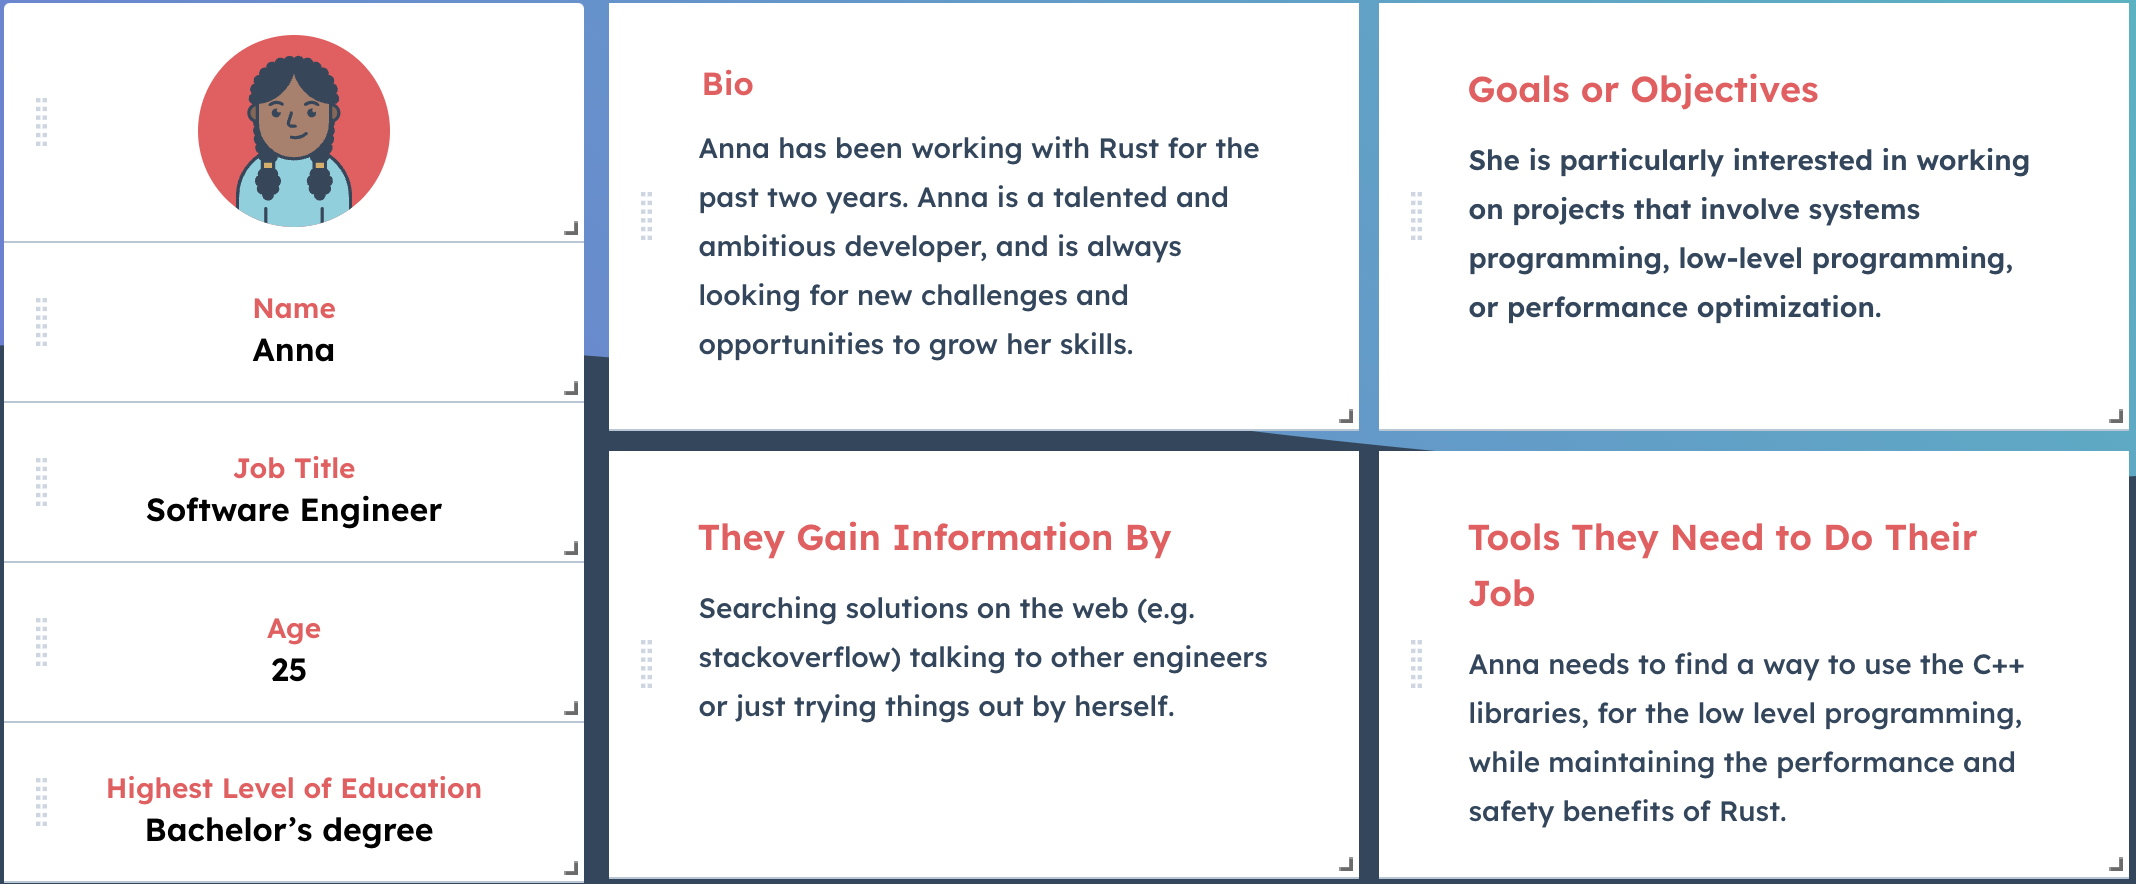
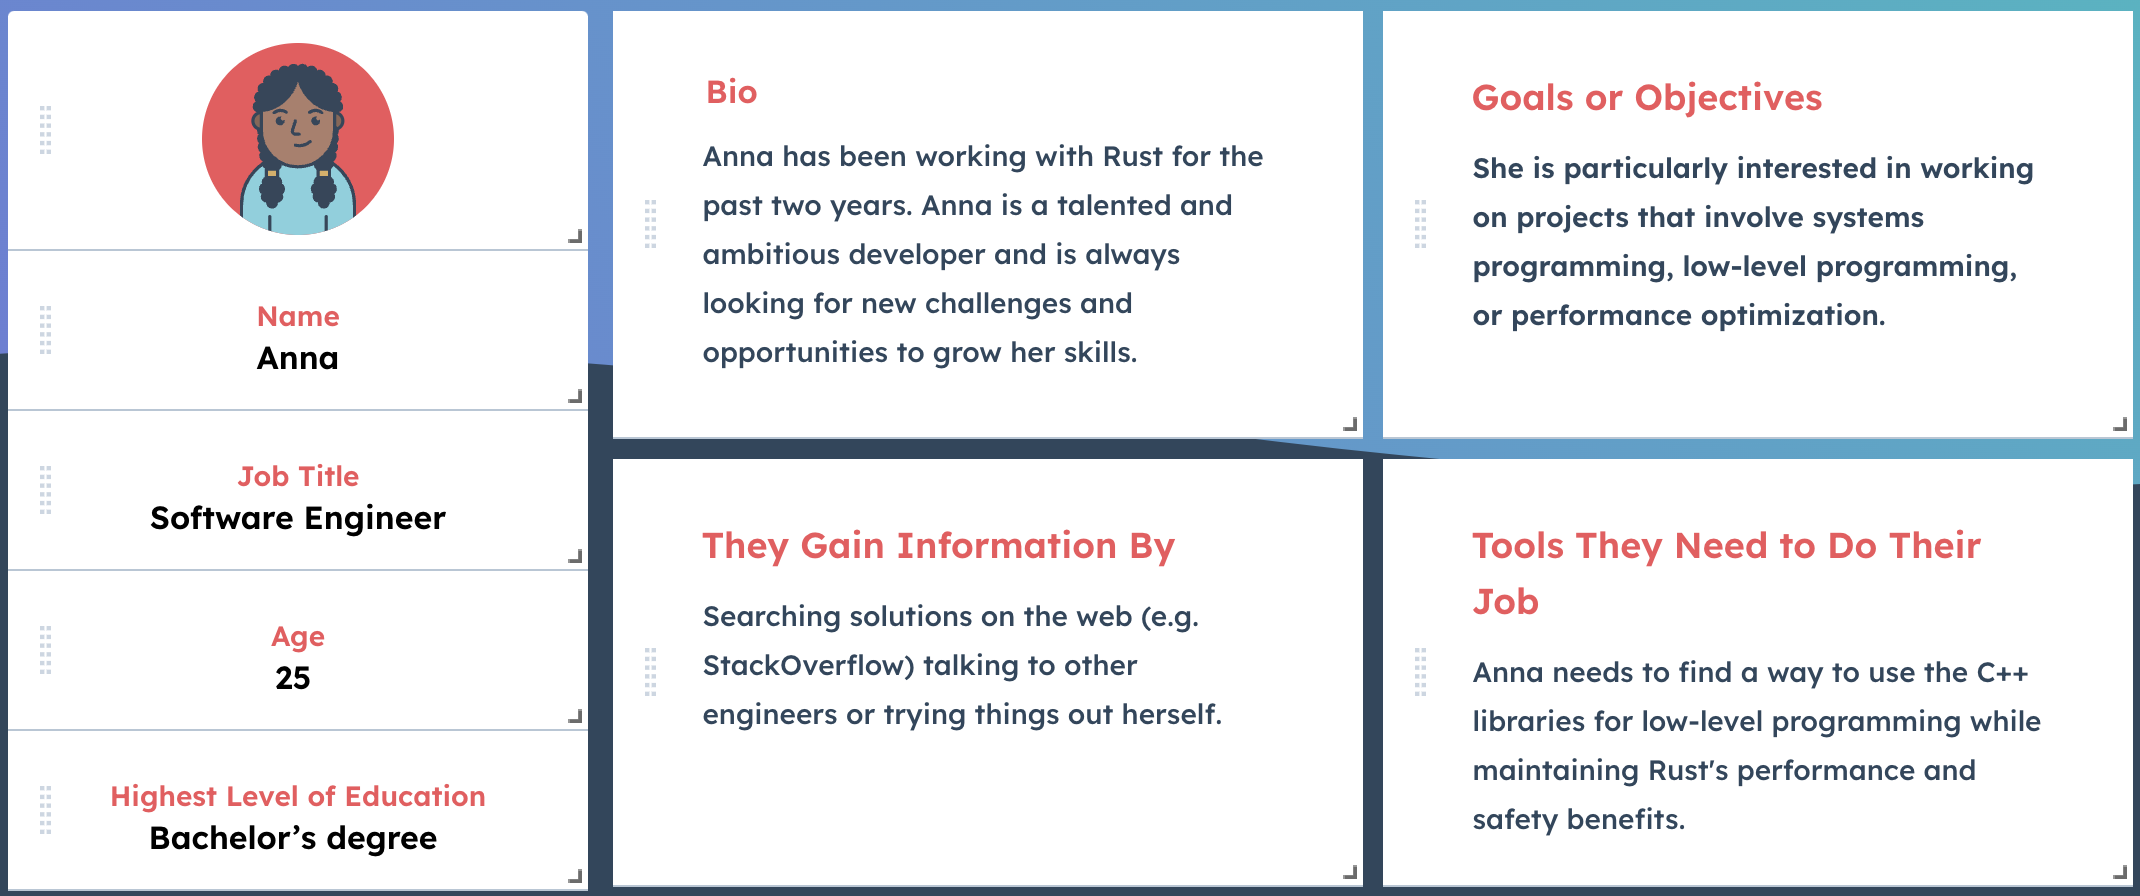
fix typos and grammar plus detailed use case and documentation

diff --git a/Documents/Functional_specifications.md b/Documents/Functional_specifications.md
@@ -31,13 +31,16 @@ Table of contents
 | [Maxime Pages](https://github.com/MaximePagesAlgoSup)| Software Engineer |
 | [Matieu Chaput](https://github.com/Chaput-Mathieu)   | Program Manager   |
 
-
-
 ## Introduction
-The goal of the project is to create an access to [Harfang3D](https://github.com/harfang3d/harfang3d) in Rust. To do that we will need to create a binding between C++ and Rust using [Fabgen](https://github.com/ejulien/FABGen). Fabgen is a tool for generating bindings for C++ libraries. It was written for the Harfang 3D project to bring the C++ engine to languages such as Python, Lua and Go. This document outlines the requirements for the addition of a Rust binding to Fabgen, which will allow Rust programs to use the functionality provided by C++ libraries.
+The goal of the project is to create access to [Harfang3D](https://github.com/harfang3d/harfang3d) in Rust. HARFANG®3D is an all-in-one 3D visualization library available in C++, Python, Lua and Go. To bind it to Rust we will need to create a binding between C++ and Rust using [Fabgen](https://github.com/ejulien/FABGen). Fabgen is a tool for generating bindings for C++ libraries. It was written for the Harfang 3D project to bring the C++ engine to languages such as Python, Lua and Go. This document outlines the requirements for the addition of a Rust binding to Fabgen, which will allow Rust programs to use the functionality provided by C++ libraries.
 
 ## Use case
-* User wants to import a C++ library in Rust
+* User wants to use a C++ library in Rust
+    * User describes the functions they want in a python file
+    * User uses Fabgen to generate a Rust binding for the C++ library
+    <!--* User download library/.o  -->
+    * User imports the library/crate created by Fabgen
+    * User uses the Rust binding in their Rust program
 
 ## Personas
 ![#Anna](./images/Persona_Anna.png)
@@ -48,15 +51,15 @@ The goal of the project is to create an access to [Harfang3D](https://github.com
 The main objectives of the binding are to:
 * Provide Rust programs with access to all of the functions and data structures in C++.
 * Be easy to use and integrate into Rust programs, with a clear and simple API that is easy to learn and use.
-* Be well-tested, following the templates existing, to ensure that it works correctly and is reliable.
-* Be released under an open source license, allowing developers to use and modify it as needed.
+* Be well-tested, following Fabgen's existing templates, to ensure that it works correctly and is reliable.
+* Be released under an open-source license, allowing developers to use and modify it as needed.
 * Be as well optimized as possible not to slow down programs using the library
 
 ## Scope
 The scope of the binding includes:
 * All <!-- Fabgen?--> functions and data structures in C++.
-* Tests for the binding, including unit and integration tests, following the existing templates of binding, to ensure that it works correctly and is reliable.
-* Support for all platforms that Fabgen supports, including Windows, and Linux.
+* Tests for the binding, including unit and integration tests, following Fabgen's existing templates, to ensure that it works correctly and is reliable.
+* Support for all platforms supported by Fabgen, including Windows, and Linux.
 * Documentation for all functions and data structures, including descriptions of their behavior and usage examples.
 
 <!-- ## Out of scope -->
@@ -66,9 +69,9 @@ The binding must meet the following requirements:
 <!-- * Be implemented as a Rust crate -->
 * Provide Rust programs with access to all of the functions and data structures in C++.
 * Be easy to use and integrate into Rust programs, with a clear and simple API that is easy to learn and use.
-* Be well-tested, with comprehensive unit and integration tests, following the existing templates of binding, to ensure that it works correctly and is reliable.
+* Be well-tested, with comprehensive unit and integration tests, following Fabgen's existing template, to ensure that it works correctly and is reliable.
 * Support all platforms that Fabgen supports, including Windows and Linux.
-* Be released under an open source license, allowing developers to use and modify it as needed.
+* Be released under an open-source license, allowing developers to use and modify it as needed.
 * Provide documentation for all functions and data structures, including descriptions of their behavior and usage examples.
 <!-- * Be as well optimized as possible not to slow down programs using the library -->
 
@@ -80,39 +83,41 @@ The following risks and assumptions have been made:
 * The template for the tests is complete and reliable.
 
 ## Deliverables
-The final deliverables for the binding will include:
+The final deliverables for the binding will include: 
 <!-- * The Rust crate, including all necessary Rust code and configuration files. -->
 * The extension of Fabgen capable of building the Rust library 
 * Documentation for the binding, including descriptions of all functions and data structures, usage examples, and any other necessary information.
-* Tests for the binding, including unit and integration tests, following the existing templates of binding, to ensure that it works correctly and is reliable.
-
-## Compatibility
-The binding should be compatible with the latest stable version of Rust, as well as any earlier versions that are still in active use. It should also be compatible with all platforms that Fabgen supports, including Windows and Linux.
+* Tests for the binding, including unit and integration tests, following Fabgen's existing templates, to ensure that it works correctly and is reliable.
 
 ## Competitors
-* [FFI (Foreign Function Interface)](https://doc.rust-lang.org/nomicon/ffi.html): Allows Rust programs to call C functions. It is a low-level library that requires the developer to write a lot of unsafe code. It is not compatible with C++ libraries.
+* [rust-bindgen](https://rust-lang.github.io/rust-bindgen/): It is a Rust library that generates Rust FFI bindings to C and C++ libraries.
 
-* [rustcxx](https://github.com/google/rustcxx): is a Rust library that allows Rust programs to call C++ functions. It is a high-level library that requires the developer to write a lot of unsafe code. It is not compatible with C libraries. It also hasn't been updated since 2016.
+* [FFI (Foreign Function Interface)](https://doc.rust-lang.org/nomicon/ffi.html): Allows Rust programs to call C functions. It is a low-level library that requires the developer to write lots of unsafe code. It is not compatible with C++ libraries.
 
-* [rust-bindgen](https://rust-lang.github.io/rust-bindgen/): is a Rust library that generates Rust FFI bindings to C and C++ libraries.
+* [rustcxx](https://github.com/google/rustcxx): It is a Rust library that allows Rust programs to call C++ functions. It is a high-level library that requires the developer to write lots of unsafe code. It is not compatible with C libraries. It also hasn't been updated since 2016.
+
+* [SWIG](https://www.swig.org/): It is a well-known binding generator supporting lots of target languages. It is old and complex and lacks some features when binding some languages.
+
+## Compatibility
+The binding should be compatible with the latest stable version of Rust as well as any earlier versions that are still in active use. It should also be compatible with all platforms that Fabgen supports, including Windows and Linux.
 
 ## Documentation
-The documentation for the binding will be generated automatically by Fabgen, and will include descriptions of all functions and data structures. 
+The documentation for the binding will be generated automatically by Fabgen. 
 
 ## License
-The binding will be released under an open source license, allowing developers to use and modify it as needed.
+The binding will be released under an open-source license, allowing developers to use and modify it as needed.
 
 ## Testing
 The binding will be tested following the templates existing in the Fabgen project. The tests will include unit and integration tests to ensure that it works correctly and is reliable.
 <!-- 
 ## Deployment
-The binding should be distributed as a fork of the existing repository of the Harfang3D C++ API. The fork should include all necessary Rust code and configuration files, and should be kept up to date with the latest version of the C++ API. -->
+The binding should be distributed as a fork of the existing repository of the Harfang3D C++ API. The fork should include all necessary Rust code and configuration files and should be kept up to date with the latest version of the C++ API. -->
 
 ## Support
 Users will be able to file bug reports and feature requests on the project's issue tracker on Github. 
 
 ## Conclusion
-This functional specification outlines the requirements for the addition of a Rust binding to Fabgen, which will provide Rust programs with access to the functionalities provided by Fabgen. By meeting these requirements, the Rust binding will allow Rust developers to use Harfang3D in their projects, and will provide a safe and idiomatic binding to work with C++ libraries.
+This functional specification outlines the requirements for the addition of a Rust binding to Fabgen, which will provide Rust programs with access to the functionalities provided by Fabgen. By meeting these requirements, the Rust binding will allow Rust developers to use Harfang3D in their projects and will provide a safe and idiomatic binding to work with C++ libraries.
 
 ## Glossary
 * API: An application programming interface, which is a set of routines, protocols, and tools for building software applications.
